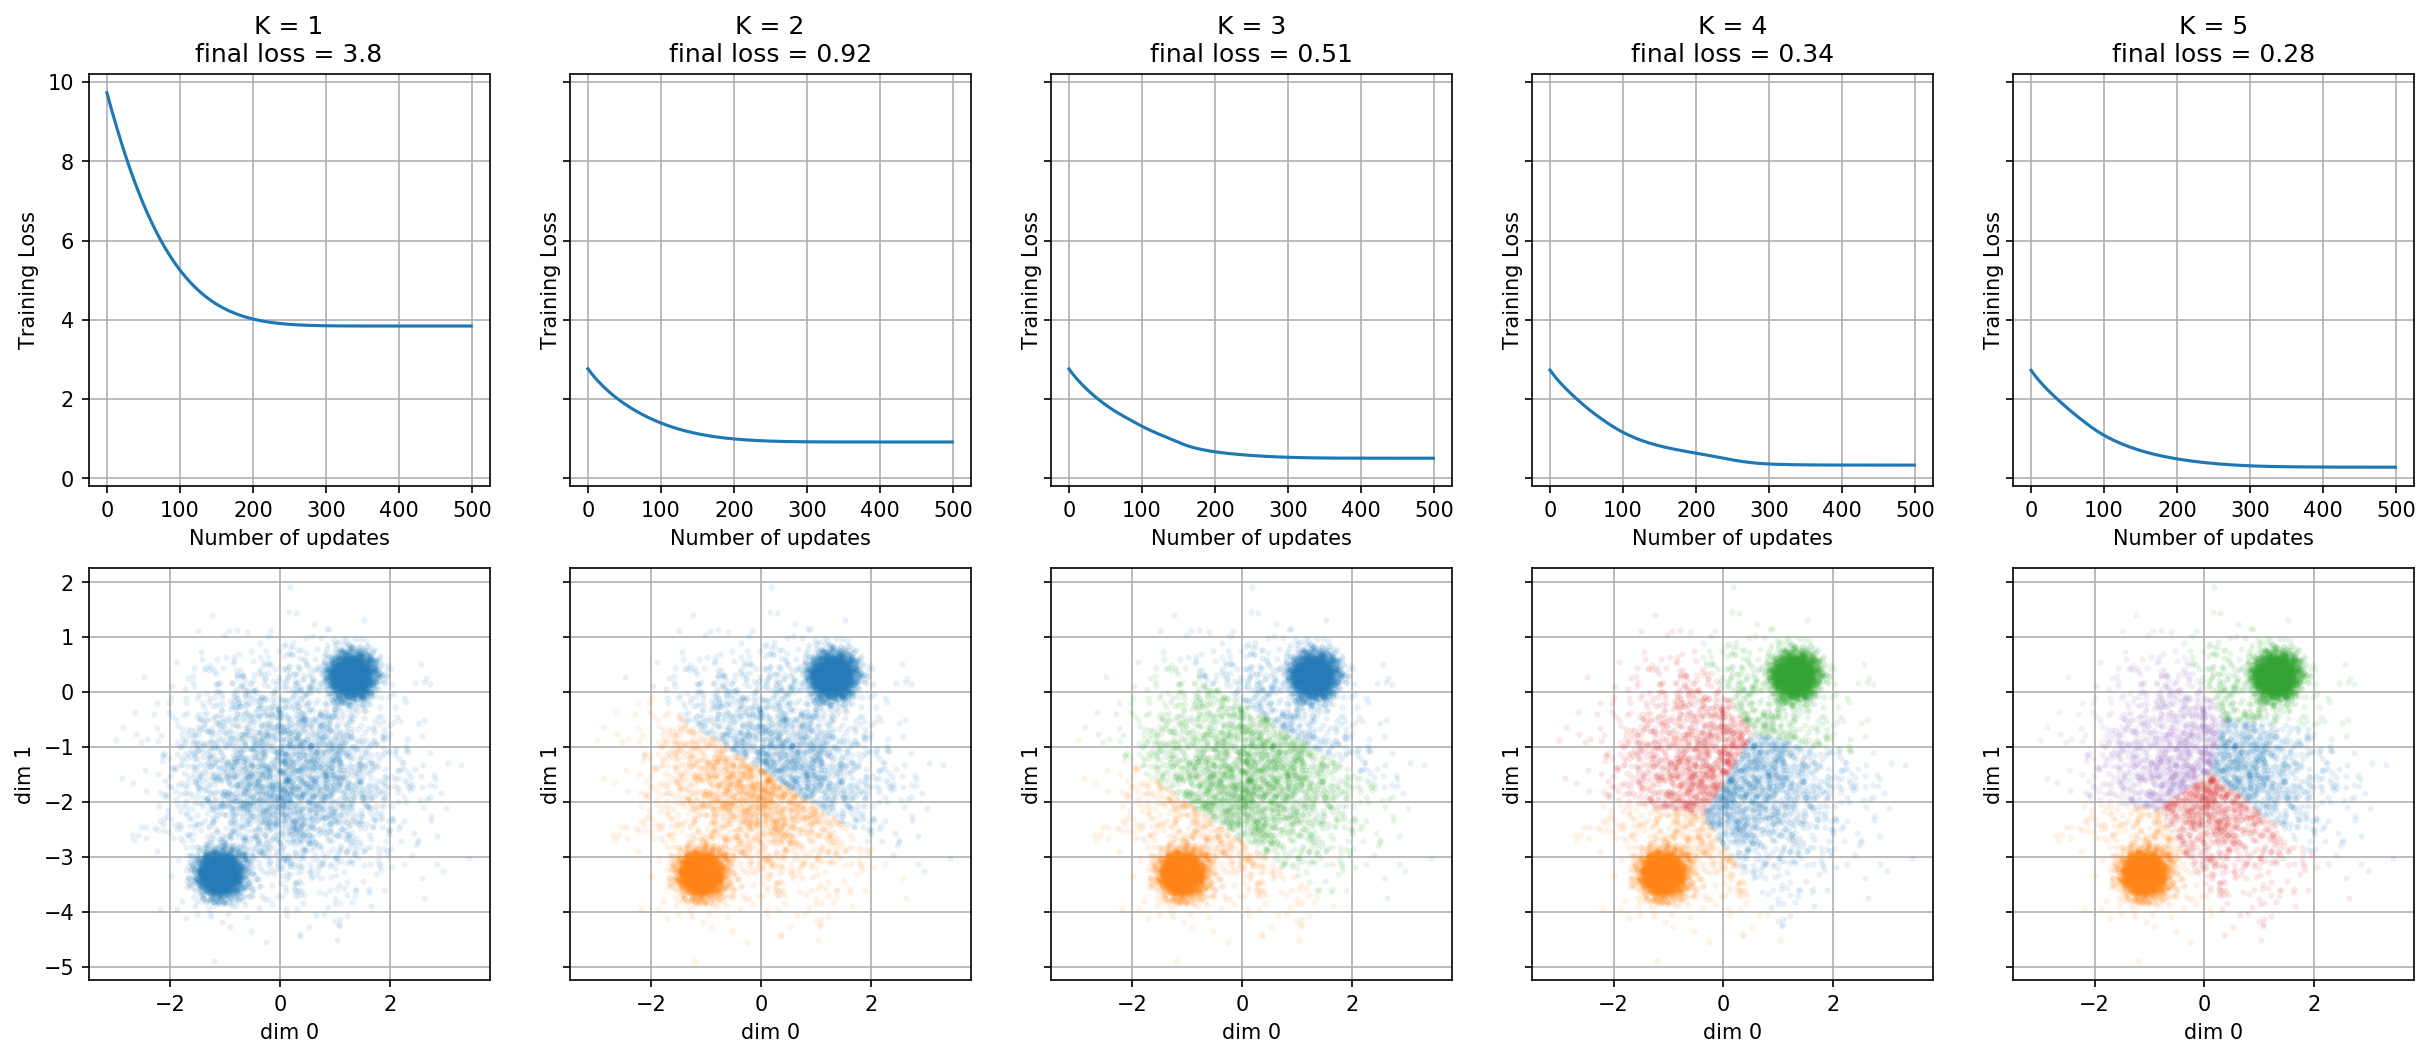
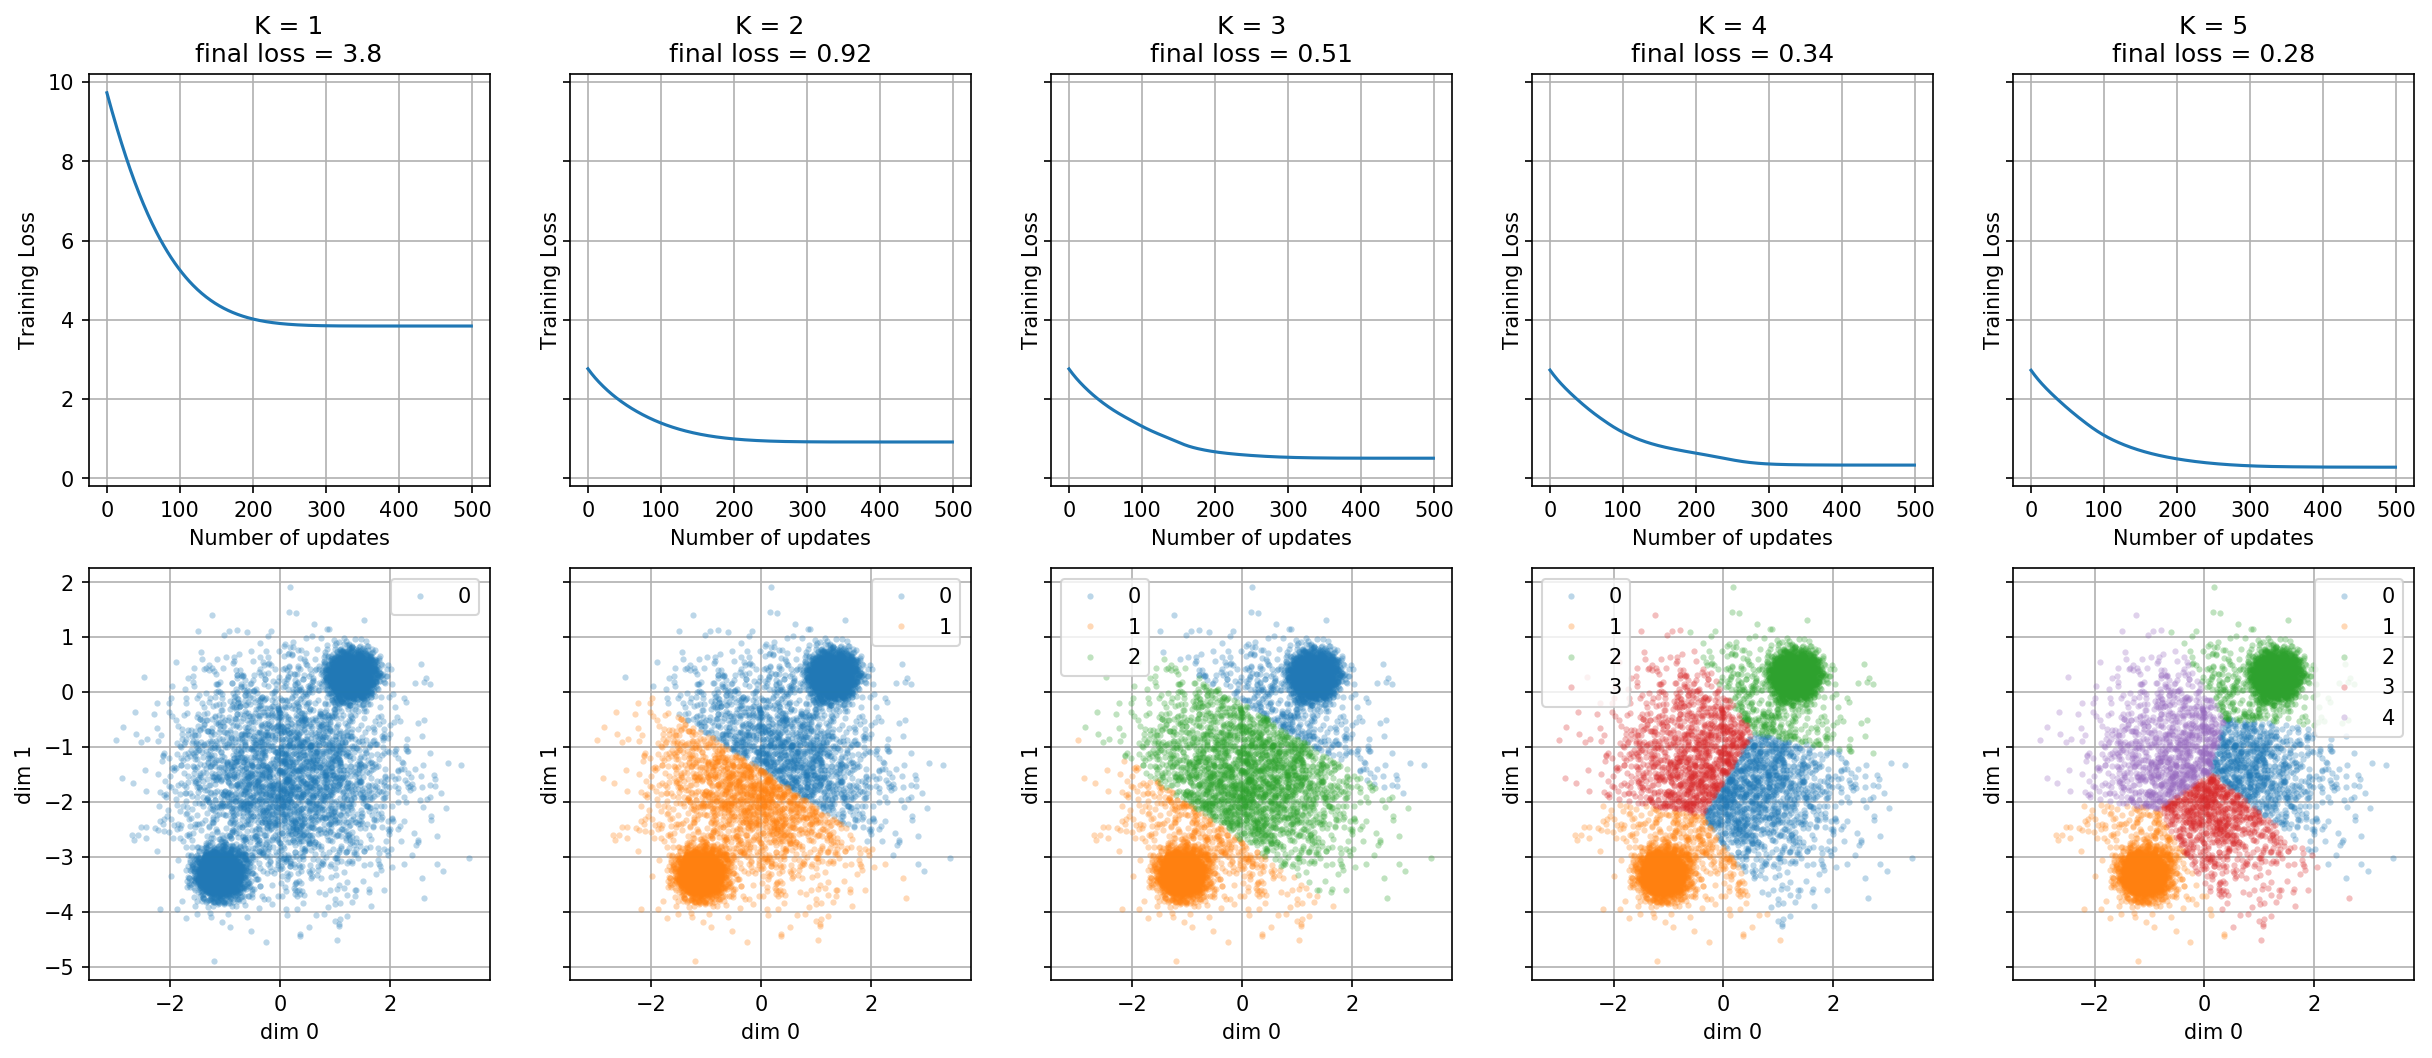
Add legend

diff --git a/a3/starter_kmeans.py b/a3/starter_kmeans.py
@@ -3,23 +3,6 @@ import numpy as np
 import matplotlib.pyplot as plt
 import helper as hlp
 
-# Loading data
-data = np.load('data2D.npy')
-
-#data = np.load('data100D.npy')
-[num_pts, dim] = np.shape(data)
-
-suffix = '2'
-is_valid = suffix == '3'
-# For Validation set
-if is_valid:
-    valid_batch = int(num_pts / 3.0)
-    np.random.seed(45689)
-    rnd_idx = np.arange(num_pts)
-    np.random.shuffle(rnd_idx)
-    val_data = data[rnd_idx[:valid_batch]]
-    data = data[rnd_idx[valid_batch:]]
-
 # Distance function for K-means
 def distanceFunc(X, MU):
     # Inputs
@@ -39,133 +22,148 @@ def distanceFunc(X, MU):
     K = MU.shape[0]
     D = X.shape[1]
 
-    X = reshape(X, (N,1,D))
+    X = reshape(X, (-1, 1, D))
     
     diff = X - MU
     sq_sum = reduce_sum(diff ** 2, axis = 2)
     
-    assert sq_sum.shape == (N, K)
+#    assert sq_sum.shape == (N, K)
     
     return sq_sum
     
-def assign(data, k, learn_rate=0.01):
-    
-    tf.reset_default_graph()
-    tf.set_random_seed(421)
-    
-    D = data.shape[1]
-
-    
-    #initialize mu based on standard normal distribution   
-    mu = tf.get_variable(
-            dtype=tf.float32,
-            initializer=tf.random_normal((k,D), seed=421),
-            name='mu'
-            )
-    
-    x = tf.placeholder(
-        dtype=tf.float32,
-        shape=(D, None),
-        name='data'
-    )
-
-
-    distance = distanceFunc(x, mu)
-    
-    #minimize distance
-    op = tf.train.AdamOptimizer(learn_rate, beta1=0.9, beta2=0.99, epsilon=1e-5).minimize(distance)
-    
-    return op
-    
-def update(data, k, learn_rate=0.01):
-    op = assign(data, k, learn_rate)
-    #op = tf.to_int32(op)
-    op = tf.cast(op, tf.int32)
-    
-    #cluster based on nearest distance of each data point
-    partitions = tf.dynamic_partition(data, op, k)
-    
-    #???????
-    #TypeError: Can't convert Operation 'Adam' to Tensor (target dtype=None, name='x', as_ref=False)
-    
-    #update center points
-    for p in partitions:
-        center = tf.concat(0, [tf.expand_dims(tf.reduce_mean(p, 0),0)])
-    
-    return center
-    
     
 if __name__ == '__main__':
-    loss_dict = {}
-    pred_dict = {}
-    for K in range(1, 6):
-        D = data.shape[1]
-        N = data.shape[0]
+    for is_valid in (False, True):
+        # Loading data
+        data = np.load('data2D.npy')
         
-        tf.reset_default_graph()        
-        X = tf.placeholder(dtype=tf.float32, shape=(N, D), name='X')
+        #data = np.load('data100D.npy')
+        [num_pts, dim] = np.shape(data)
         
-        MU = tf.get_variable(name='MU', shape=(K, D), dtype=tf.float32, 
-                             initializer=tf.initializers.random_normal,
-                             trainable=True)
-        
-        sq_dist = distanceFunc(X, MU)
-        
-        pred = tf.argmin(sq_dist, axis=1)
-        min_sq_dist = tf.reduce_min(sq_dist, axis=1)
-        
-        loss = tf.reduce_mean(min_sq_dist, axis=0)
-        
-        assert loss.shape == ()
-        
-        optim = tf.train.AdamOptimizer(learning_rate=1e-2,
-                                        beta1=0.9,
-                                        beta2=0.99,
-                                        epsilon=1e-5)
-        train_op = optim.minimize(loss)
-        
-        # Add an op to initialize the variables.
-        init_op = tf.global_variables_initializer()
-        epoches = 500
-        loss_curve = []
-        pred_list = []
-        with tf.Session() as sess:
-            # Run the init operation.
-            sess.run(init_op)
+        # For Validation set
+        if is_valid:
+            valid_batch = int(num_pts / 3.0)
+            np.random.seed(45689)
+            rnd_idx = np.arange(num_pts)
+            np.random.shuffle(rnd_idx)
+            val_data = data[rnd_idx[:valid_batch]]
+            data = data[rnd_idx[valid_batch:]]
             
-            for i in range(epoches):
-                _, loss_val, pred_val = sess.run([train_op, loss, pred], feed_dict={X: data})
-                loss_curve.append(loss_val)
-                pred_list.append(pred_val)
-    #            if len(pred_list) >= 2 and np.all(pred_list[-1] == pred_list[-2]):
-    #                print('Converged after %d iterations' % i)
-    #                break
-        loss_dict[K] = loss_curve
-        pred_dict[K] = pred_list
-    
-#%%    
-    fig, ax = plt.subplots(2, 5, figsize=(10, 4), sharey='row')
-    for K in range(1, 6):
-        loss_curve = loss_dict[K]
-        pred_list = pred_dict[K]
-        pred_val = pred_list[-1]
+    # %%
+        loss_dict = {}
+        pred_dict = {}
+        valid_loss_dict = {}
+        valid_pred_dict = {}
+        for K in range(1, 6):
+            print('Training K = %d' % K)
+            D = data.shape[1]
+            N = data.shape[0]
+            
+            tf.reset_default_graph() 
+            tf.set_random_seed(0)
+            
+            X = tf.placeholder(dtype=tf.float32, shape=(None, D), name='X')
+            
+            MU = tf.get_variable(name='MU', shape=(K, D), dtype=tf.float32, 
+                                 initializer=tf.initializers.random_normal,
+                                 trainable=True)
+            
+            sq_dist = distanceFunc(X, MU)
+            
+            pred = tf.argmin(sq_dist, axis=1)
+            min_sq_dist = tf.reduce_min(sq_dist, axis=1)
+            
+            loss = tf.reduce_mean(min_sq_dist, axis=0)
+            
+            assert loss.shape == ()
+            
+            optim = tf.train.AdamOptimizer(learning_rate=1e-2,
+                                            beta1=0.9,
+                                            beta2=0.99,
+                                            epsilon=1e-5)
+            train_op = optim.minimize(loss)
+            
+            # Add an op to initialize the variables.
+            init_op = tf.global_variables_initializer()
+            epoches = 500
+            loss_curve = []
+            pred_list = []
+            valid_loss_curve = []
+            valid_pred_list = []
+            with tf.Session() as sess:
+                # Run the init operation.
+                sess.run(init_op)
+                
+                for i in range(epoches):
+                    _, loss_val, pred_val = sess.run([train_op, loss, pred], feed_dict={X: data})
+                    loss_curve.append(loss_val)
+                    pred_list.append(pred_val)
+                    
+                    if is_valid:
+                        valid_loss_val, valid_pred_val = sess.run([loss, pred], feed_dict={X: val_data})
+                    
+                        valid_loss_curve.append(valid_loss_val)
+                        valid_pred_list.append(valid_pred_val)
+                    
+            loss_dict[K] = loss_curve
+            pred_dict[K] = pred_list
+            valid_loss_dict[K] = valid_loss_curve
+            valid_pred_dict[K] = valid_pred_list
         
-        ax[0, K-1].plot(loss_curve)
-        ax[0, K-1].set_xlabel('Number of updates')
-        ax[0, K-1].set_ylabel('Loss')
-        ax[0, K-1].grid()
-        ax[0, K-1].set_title('K = %d' % K)
+    #%%    
+        if not is_valid:
+            fig, ax = plt.subplots(2, 5, figsize=(20, 8), sharey='row')
+        else:
+            fig, ax = plt.subplots(4, 5, figsize=(20, 20), sharey='row')
+            
+        for K in range(1, 6):
+            loss_curve = loss_dict[K]
+            pred_list = pred_dict[K]
+            pred_val = pred_list[-1]
+            
+            ax[0, K-1].plot(loss_curve)
+            ax[0, K-1].set_xlabel('Number of updates')
+            ax[0, K-1].set_ylabel('Training Loss')
+            ax[0, K-1].grid()
+            ax[0, K-1].set_title('K = %d\nfinal loss = %.2g' % (K, loss_curve[-1]))
+            
+            for k in range(K):
+                ax[1, K-1].plot(data[pred_val == k, 0], data[pred_val == k, 1], '.', alpha=0.3, markeredgewidth=0.0)
+                print('Cluster %d' % k, np.count_nonzero(pred_val == k), np.count_nonzero(pred_val == k) * 1.0 / len(pred_val))
+            print()
+            ax[1, K-1].grid()
+            ax[1, K-1].set_xlabel('dim 0')
+            ax[1, K-1].set_ylabel('dim 1')
+            ax[1, K-1].axis('equal')
+            ax[1, K-1].legend([str(k) for k in range(K)])
         
-        for k in range(K):
-            ax[1, K-1].plot(data[pred_val == k, 0], data[pred_val == k, 1], '.')
-        ax[1, K-1].grid()
-        ax[1, K-1].set_xlabel('dim 0')
-        ax[1, K-1].set_ylabel('dim 1')
-        
-    fig.savefig('1_k%d_%s.png' % (K, suffix), dpi=300, transparent=True, bbox_inches='tight', pad_inches=0.1)
-    fig.show()
-        
-        
+        if not is_valid:
+            fig.savefig('1_k%d.png' % K, dpi=150, transparent=True, bbox_inches='tight', pad_inches=0.1)
+            fig.show()
+        else:
+            for K in range(1, 6):
+                loss_curve = valid_loss_dict[K]
+                pred_list = valid_pred_dict[K]
+                pred_val = pred_list[-1]
+                
+                ax[2, K-1].plot(loss_curve)
+                ax[2, K-1].set_xlabel('Number of updates')
+                ax[2, K-1].set_ylabel('Validation Loss')
+                ax[2, K-1].grid()
+                ax[2, K-1].set_title('final loss = %.2g' % loss_curve[-1])
+                
+                for k in range(K):
+                    ax[3, K-1].plot(val_data[pred_val == k, 0], val_data[pred_val == k, 1], '.', alpha=0.3, markeredgewidth=0.0)
+                ax[3, K-1].grid()
+                ax[3, K-1].set_xlabel('dim 0')
+                ax[3, K-1].set_ylabel('dim 1')
+                ax[3, K-1].axis('equal')
+                ax[3, K-1].legend([str(k) for k in range(K)])
+            
+            fig.savefig('1_k%d_valid.png' % K, dpi=150, transparent=True, bbox_inches='tight', pad_inches=0.1)
+            fig.show()
+            
+            
         
         
         
